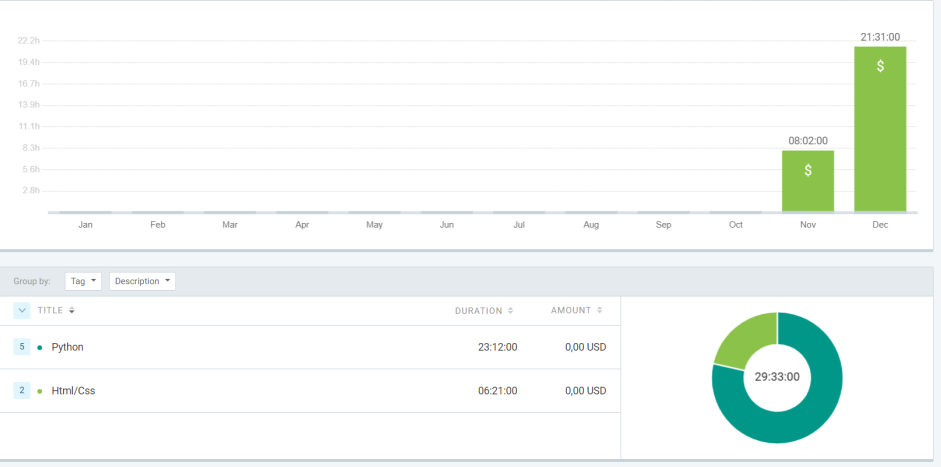
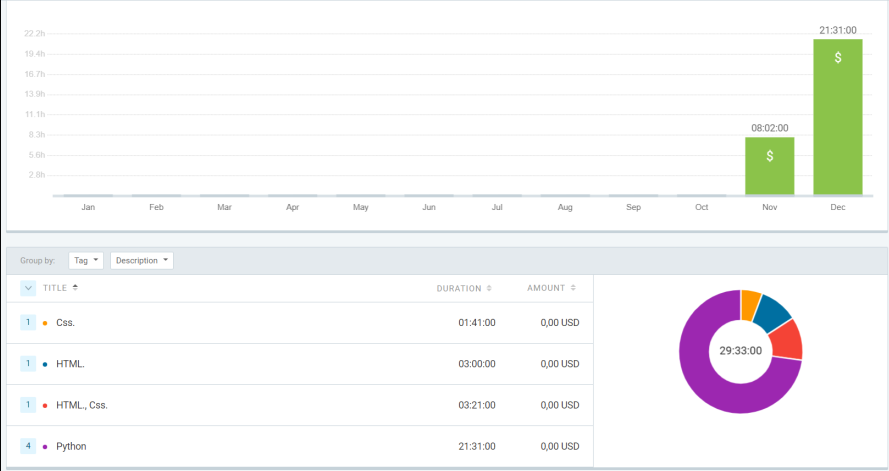
final

diff --git a/domain/test/test_crawl_web.py b/domain/test/test_crawl_web.py
@@ -1,0 +1,13 @@
+from src.app import crawl_web
+import pytest
+
+
+
+def correct():
+    assert crawl_web("https://oualidzm.github.io/Ricksy-business/web/Index/Index_1.html") == ['https://oualidzm.git...dex_1.html', 'https://oualidzm.git...l_nav.html', 'https://oualidzm.git...rande.html', 'https://oualidzm.git...serva.html', 'https://oualidzm.git...izada.html', 'https://oualidzm.git...diana.html', 'https://oualidzm.git...igera.html']
+
+
+
+
+
+

diff --git a/domain/test/test_union.py b/domain/test/test_union.py
@@ -1,17 +1,18 @@
-from services.app import union
+from src.app import union
 import pytest
 
 
-@pytest.mark.p_False_q_True
+
 def test_no_p():
     assert union([], [1, 2, 3]) == [1, 2, 3]
 
 
-@pytest.mark.p_y_q_False
+
 def p_n_q():
     assert union([], []) == []
 
 
-@pytest.mark.p_menor_q
+
+
 def p_menor_q():
     assert union([2, 3], [1, 3, 4]) == [1, 2, 3, 4]

diff --git a/domain/test/test_get_all_links.py b/domain/test/test_get_all_links.py
@@ -1,6 +1,6 @@
 import pytest
-from services.app import get_all_links
-from services.app import get_page
+from src.app import get_all_links
+from src.app import get_page
 
 
 def nice_list(content):

diff --git a/domain/src/app.py b/domain/src/app.py
@@ -3,6 +3,7 @@ import pymongo
 from bson.json_util import dumps
 from pymongo.errors import ConnectionFailure
 import dns
+import pytest
 
 
 def get_page(page):  # llegir html

diff --git a/domain/test/test_get_next_target.py b/domain/test/test_get_next_target.py
@@ -1,4 +1,4 @@
-from services.app import get_next_target
+from src.app import get_next_target
 import pytest
 
 

diff --git a/domain/test/test_scrapper_target.py b/domain/test/test_scrapper_target.py
@@ -1,4 +1,4 @@
-from services.app import scrapper_target
+from src.app import scrapper_target
 import pytest
 
 

diff --git a/domain/test/test_get_page_url.py b/domain/test/test_get_page_url.py
@@ -1,4 +1,4 @@
-from services.app import get_page
+from src.app import get_page
 import pytest
 
 

diff --git a/README.md b/README.md
@@ -12,66 +12,136 @@
 
 ##  WINDOWS
 #
-- Crea un directorio y sitúate encima
+- Crea un directorio
 ##
-    mkdir Projecta
-    cd Projecta
+    mkdir Starship-Business
+
+![](../Ricksy-business/markdown_pictures/windows/crear_carpeta_windows.png)
+
+##
+
+
 #
+- sitúate encima
+##
+    cd Starship-Business
+
+![](../Ricksy-business/markdown_pictures/windows/situate_encima_windows.png)
+
+#
+
 - Clonar el repositorio:  
  ##
     git clone https://github.com/OualidZM/Ricksy-business.git
+
+![](../Ricksy-business/markdown_pictures/windows/git_clone_windows.png)    
 #
 
-- Instalamos **entorno Virtual** en nuestro ordenador:  
+- Instalamos el **entorno Virtual** en nuestro ordenador:  
 ##
     pip install virtualenv
 
+![](../Ricksy-business/markdown_pictures/windows/instalacion_env.png)  
+
 # 
+
+- Creamos el **entorno Virtual**:       
+##
+     C:\Users\q\Starship-Business\Ricksy-business>python -m venv env
+
+![](../Ricksy-business/markdown_pictures/windows/creacion_env.png)  
+
+#
 
 - Iniciamos el **entorno Virtual**:       
 ##
-     C:\Users\q\Desktop\Projecta\Ricksy-business>env\Scripts\activate
+     C:\Users\q\Starship-Business\Ricksy-business>env\Scripts\activate
+
+![](../Ricksy-business/markdown_pictures/windows/activacion_env.png)  
+
 #
 - Ahora instalamos todas las dependencias:
 ##
 
-    (env) C:\Users\q\Desktop\project\Ricksy-business>pip install -r requirements.txt
+    (env) C:\Users\q\Starship-Business\Ricksy-business>pip install -r requirements.txt
 
+
+![](../Ricksy-business/markdown_pictures/windows/requirement_windows.png)  
 
 
 # Linux
 
-- Crea un directorio y sitúate encima
+- Crea un directorio
 ##
-    mkdir Projecta
-    cd Projecta
+    mkdir Starship-Business
 
+
+
+
+![](../Ricksy-business/markdown_pictures/linux/Crear_carpeta_linux.png)
+#
+
+- Sitúate encima
+##
+    cd Starship-Business
+
+![](../Ricksy-business/markdown_pictures/linux/entramos_en_carpeta.png)
 #
 - Clonar repositorio:  
 ##  
     git clone https://github.com/OualidZM/Ricksy-business.git
-#
 
-
-- Instalamos **entorno Virtual** en nuestro ordenador:  
-#
-    $ sudo apt-get install python3.6-venv
+![](../Ricksy-business/markdown_pictures/linux/git_clone_linux.png)
 
 #
 
+
+- Instalamos pip en nuestro ordenador:  
+##
+    $ sudo apt install python3-pip
+
+
+![](../Ricksy-business/markdown_pictures/linux/instalacion-pip.png) 
+
+#
+
+
+
+ 
+- Instalamos el **entorno Virtual** en nuestro ordenador: 
+##
+    $ sudo apt-get install python3-venv -y
+
+![](../Ricksy-business/markdown_pictures/linux/download_venv.png)
+
+#
+
+
+
+
+- Creamos un  **entorno Virtual** en nuestro ordenador:  
+##
+    python3 -m venv venv
+
+![](../Ricksy-business/markdown_pictures/linux/crear_venv_linux.png)
+
+#
     
     
 
 - Iniciamos el **entorno Virtual**:       
 ##
-    $ python3.6 -m venv venv
     $ source venv/bin/activate
+
+![](../Ricksy-business/markdown_pictures/linux/venv_linux_iniciar.png)
 
 #
 
 - Ahora instalamos todas las dependencias:
 ##
     (venv) $ pip3 install -r requirements.txt
+
+![](../Ricksy-business/markdown_pictures/linux/requirements_linux.png)
 #
 
 
@@ -83,7 +153,7 @@
     el Crawler y el Scraper,
     El Crawler se dedicará a recoger todos
     los links que hay en la página y los 
-    devolvera en un diccionario, seguidamente
+    devolvera en una lista, seguidamente
     al obtener todos los links podremos utilizar
     el scrapper para poder sacar de cada link la 
     información que a nosotros nos sirva, en este 
@@ -95,23 +165,26 @@
     De cada uno devolverá los valores sin los tags
     del html "<>" ni nada por el estilo, solo el
     texto, y finalmente esa información la subiremos
-    al MongoDB
+    al MongoDB en forma de diccionario.
 
 #
 # __Ejecución__
 
-- Nos Situamos en la carpeta desde la terminal       
+- Nos Situamos en la carpeta desde la terminal si no lo estamos    
 ##
-    cd projecta
+    cd Starship-Business
     cd Ricksy-business
+
+![](../Ricksy-business/markdown_pictures/Ejecución/dirrecion_absoluta.png)
+
 
 #
 
-- Ejecutamos el archivo **app.py**       
+- Ejecutamos el archivo **app.py** 
 ##
     python app.py // python3 app.py
 
-
+![](../Ricksy-business/markdown_pictures/Ejecución/app.png)
 
 #
 
@@ -125,6 +198,26 @@
 #
 
 
+
+
+# __Diagrama de Componentes__
+
+![](../Ricksy-business/diagrama_de_componentes/diagrama_de_componentes.png)
+# __Clockify__
+
+![](../Ricksy-business/clockify/clockify.png)
+
+
+
+
+
+
+# __Herramientas Utilizadas__
+
+    vscode
+    gimp
+
+
 # __Conclusion__
 
     Para concluir, pensamos que el proyecto fue
@@ -134,6 +227,8 @@
     Nos sirvió este proyecto para darnos cuenta 
     de problemas mencionados anteriormente, que
     nos podrán servir para mejorar en el próximo.
+    
+#
     
 # __Autores__
 
